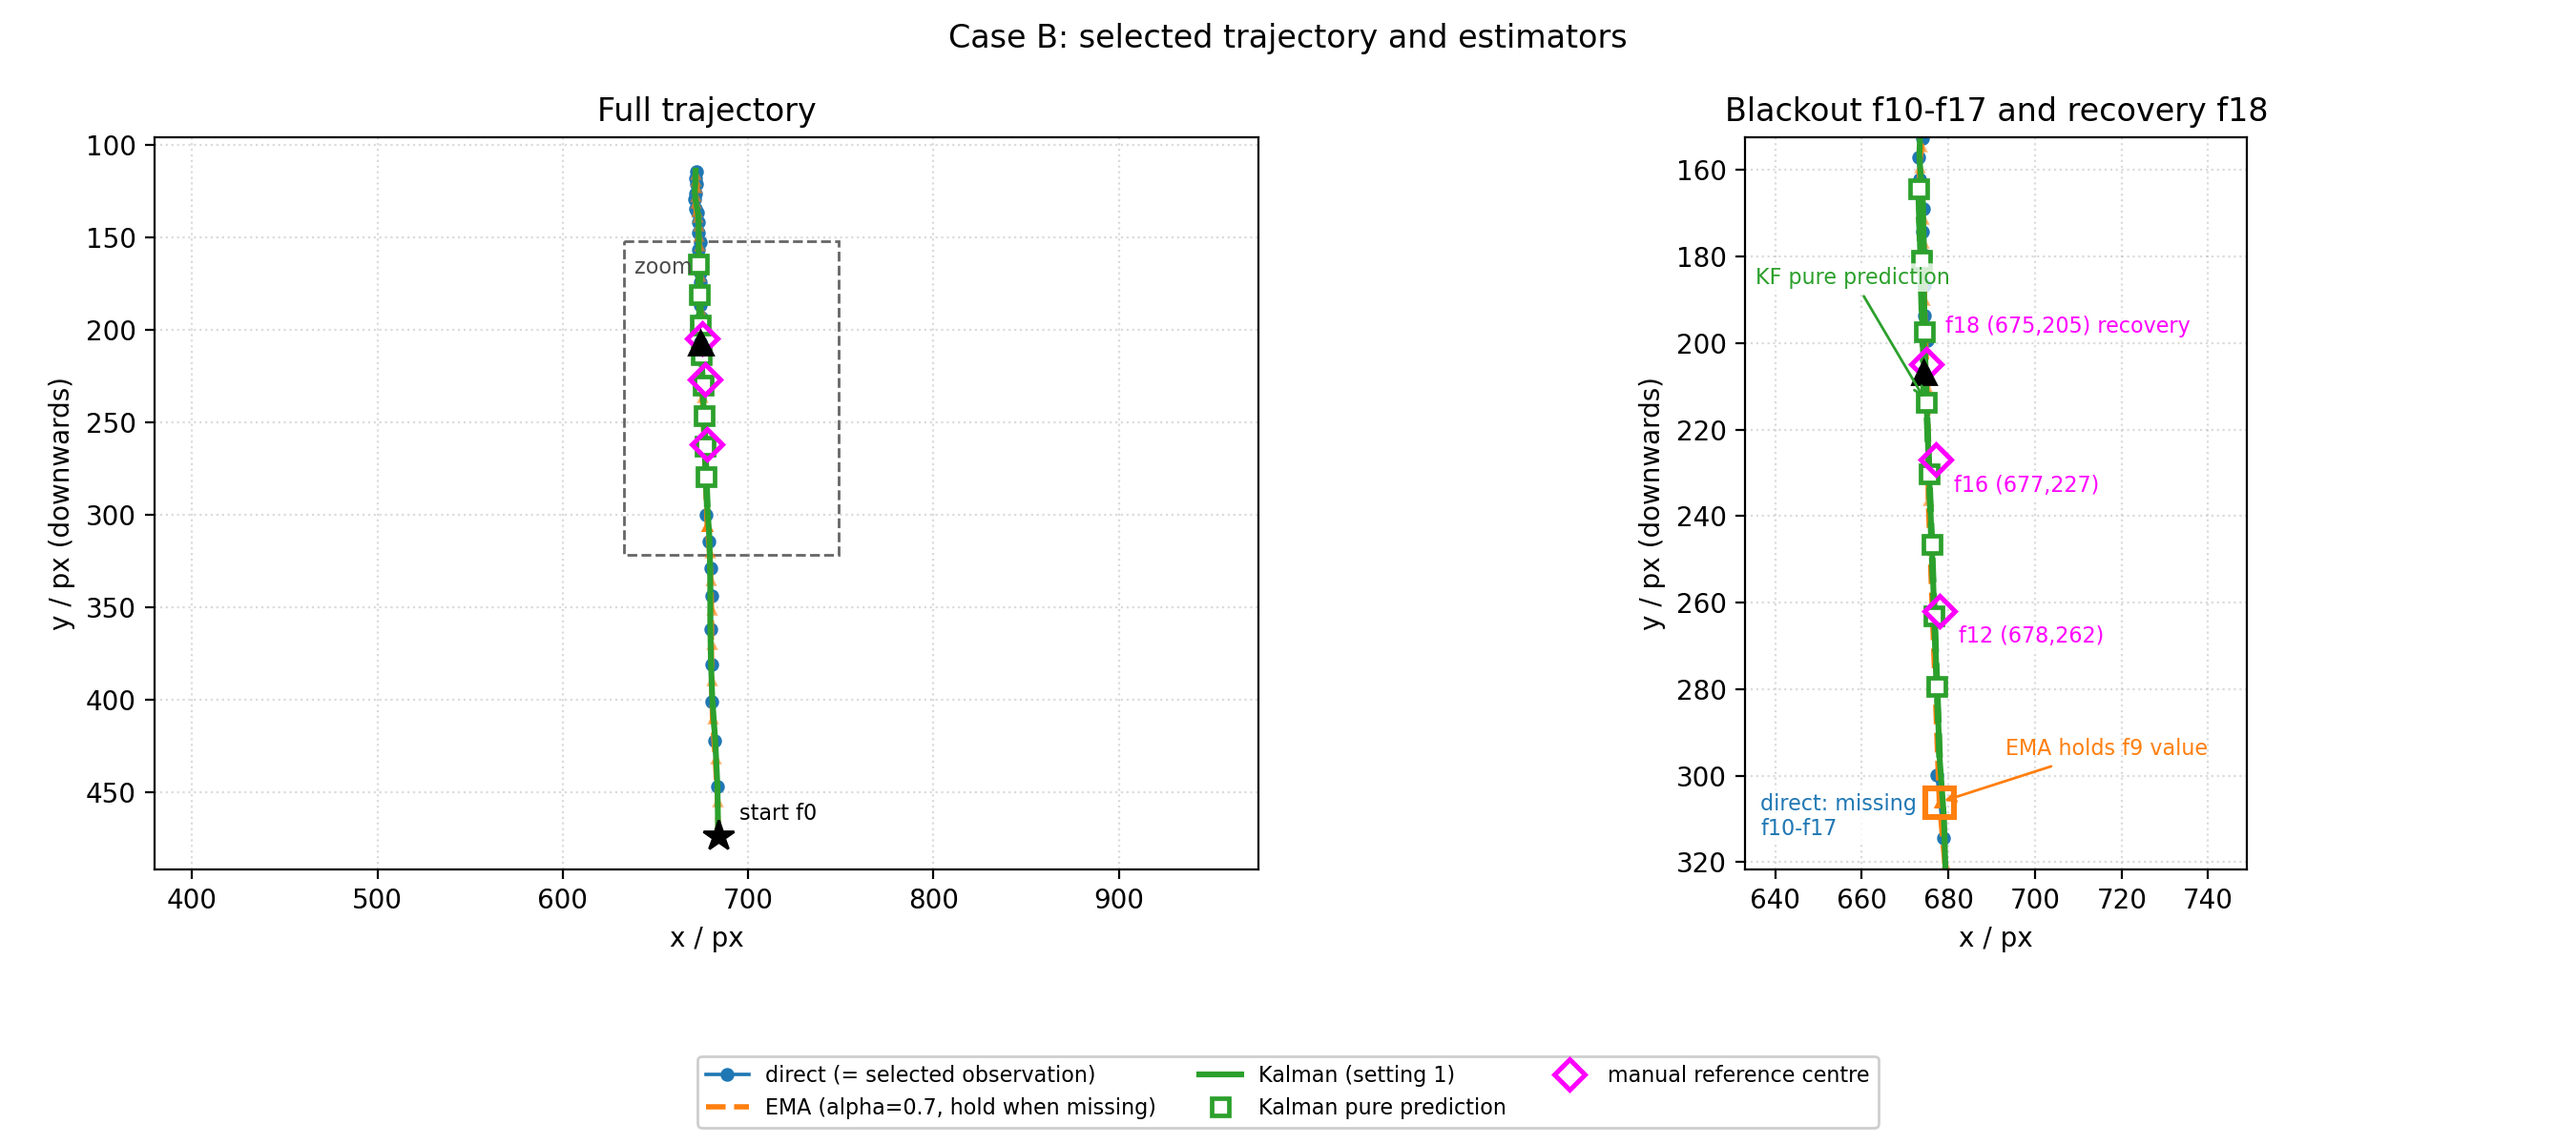
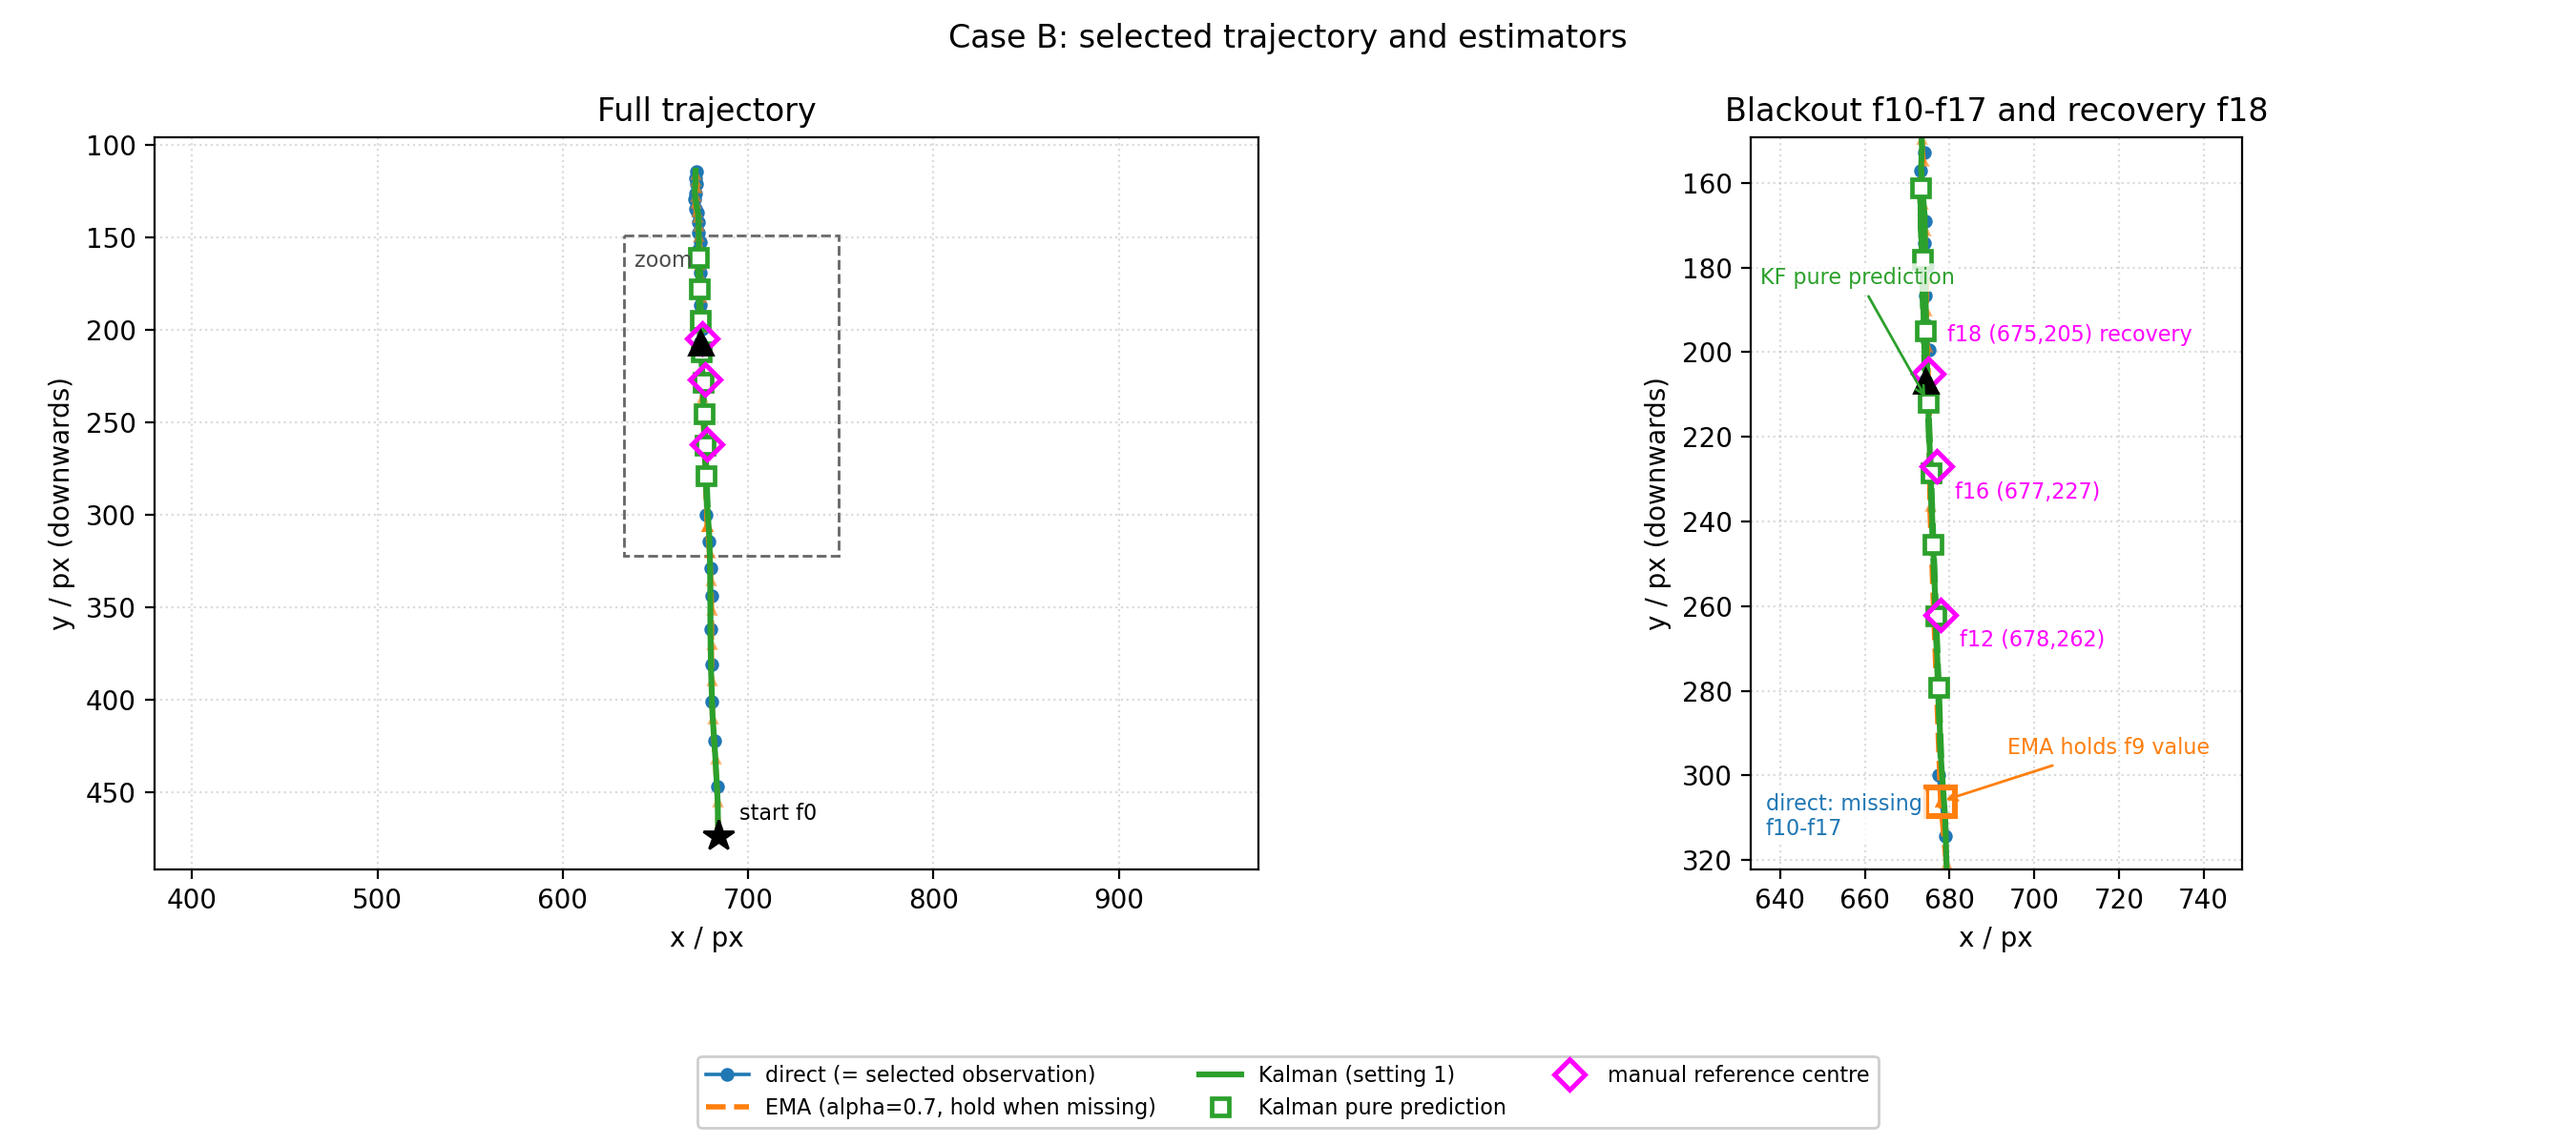
fix(task2): make Kalman velocity causal and use actual recovery frame
- Start the Kalman filter with zero velocity; the second observation updates velocity when it arrives, so the frame-1 prediction no longer depends on the frame-1 observation.
- Derive the recovery frame from the input blackout flags instead of fixed manual frames; the 13-frame B blackout exports recovery frame 23.
- Regenerate trajectory plots, screenshots, per-frame tables and reference errors with the causal filter.

diff --git a/task2/run.py b/task2/run.py
@@ -125,13 +125,12 @@ def ema_estimates(frames, obs: dict[int, Observation], alpha: float):
 
 def kalman_estimates(frames, obs: dict[int, Observation], sigma_r: float):
     """Constant-velocity linear KF; returns prior, posterior and mode."""
-    observed = sorted(obs)
-    f0, f1 = observed[0], observed[1]
-    z0, z1 = obs[f0].center, obs[f1].center
-    times = {tf.index: tf.time_s for tf in frames}
-    dt = times[f1] - times[f0]
-    velocity = (z1 - z0) / dt
-    x = np.array([z0[0], z0[1], velocity[0], velocity[1]], dtype=float)
+    f0 = min(obs)
+    z0 = obs[f0].center
+    # Causal start: no future observation is used to set the initial velocity.
+    # The second observation, when it actually arrives, updates the state and
+    # therefore the velocity through the normal Kalman update.
+    x = np.array([z0[0], z0[1], 0.0, 0.0], dtype=float)
     P = np.diag([P0_POS ** 2, P0_POS ** 2, P0_VEL ** 2, P0_VEL ** 2])
     H = np.array([[1.0, 0.0, 0.0, 0.0], [0.0, 1.0, 0.0, 0.0]])
     R = np.eye(2) * sigma_r ** 2
@@ -144,6 +143,8 @@ def kalman_estimates(frames, obs: dict[int, Observation], sigma_r: float):
     mode[f0] = "init"
 
     for previous, current in zip(frames, frames[1:]):
+        if current.index <= f0:
+            continue
         dt = current.time_s - previous.time_s
         F = np.array([[1.0, 0.0, dt, 0.0],
                       [0.0, 1.0, 0.0, dt],
@@ -188,6 +189,22 @@ def counts(frames, obs):
         "ema_valid": len(frames),
         "kalman_valid": len(frames),
     }
+
+
+def recovery_frame(frames, obs) -> int:
+    """First observed frame after the last input blackout frame."""
+    black = [tf.index for tf in frames if tf.blackout]
+    if black:
+        last_blackout = max(black)
+        candidates = [tf.index for tf in frames
+                      if tf.index > last_blackout and not tf.blackout
+                      and tf.index in obs]
+    else:
+        candidates = [tf.index for tf in frames if tf.index in obs]
+    if not candidates:
+        raise SystemExit(
+            "no observed frame after the blackout; cannot export recovery frame")
+    return min(candidates)
 
 
 def write_frame_table(path: Path, frames, obs, ema, post, mode):
@@ -235,10 +252,11 @@ def plot_case(case: str, frames, obs, ema, post, manual, setting: int,
     black_idx = np.where(black)[0]
     first_black, last_black = black_idx[0], black_idx[-1]
     hold_idx = first_black - 1
-    recovery = min(f for f in manual if not frames[f].blackout)
+    recovery = recovery_frame(frames, obs)
 
     zoom_ids = sorted(set(range(max(0, first_black - 2),
-                                min(len(fs), last_black + 3))) | set(manual))
+                                min(len(fs), last_black + 3))) | set(manual)
+                      | {recovery})
     zx_values = list(kx[zoom_ids]) + list(mx) + [
         obs_x[recovery], ema[hold_idx][0]]
     zy_values = list(ky[zoom_ids]) + list(my) + [
@@ -287,6 +305,11 @@ def plot_case(case: str, frames, obs, ema, post, manual, setting: int,
                             color="magenta", fontsize=8,
                             bbox=dict(boxstyle="round,pad=0.15",
                                       fc="white", ec="none", alpha=0.75))
+            if recovery not in manual:
+                ax.annotate(f"recovery f{recovery}",
+                            (obs_x[recovery], obs_y[recovery]),
+                            xytext=(8, -16), textcoords="offset points",
+                            fontsize=8, color="black")
             hold = ema[hold_idx]
             ax.plot(hold[0], hold[1], "s", ms=11, mfc="none",
                     mec="tab:orange", mew=2.2)
@@ -451,14 +474,21 @@ def main() -> None:
         frames_a, obs_a, ema_a = data["a"]
         kf_a = {s: kalman_estimates(frames_a, obs_a, SIGMA_R[s])
                 for s in (1, 2)}
-        recovery_a = 20
-        manual_a = MANUAL["a"][recovery_a]
-        err_a = {s: float(np.linalg.norm(
-            kf_a[s][1][recovery_a] - manual_a)) for s in (1, 2)}
-        selected = min(err_a, key=err_a.get)
-        print(f"A recovery f{recovery_a}: corrected error "
-              f"setting1={err_a[1]:.2f} px, setting2={err_a[2]:.2f} px "
-              f"-> setting {selected}")
+        recovery_a = recovery_frame(frames_a, obs_a)
+        if recovery_a in MANUAL["a"]:
+            manual_a = MANUAL["a"][recovery_a]
+            err_a = {s: float(np.linalg.norm(
+                kf_a[s][1][recovery_a] - manual_a)) for s in (1, 2)}
+            selected = min(err_a, key=err_a.get)
+            print(f"A recovery f{recovery_a}: corrected error "
+                  f"setting1={err_a[1]:.2f} px, setting2={err_a[2]:.2f} px "
+                  f"-> setting {selected}")
+        else:
+            manual_a = None
+            err_a = {}
+            selected = 1
+            print(f"A recovery f{recovery_a} is not a fixed manual centre; "
+                  f"keeping setting 1")
     else:
         frames_a = obs_a = ema_a = kf_a = None
         recovery_a = None
@@ -482,7 +512,7 @@ def main() -> None:
                           post, mode)
         plot_case(case, frames, obs, ema, post, MANUAL[case], selected,
                   OUT / f"{case}_trajectory.png")
-        rec = min(f for f in MANUAL[case] if not frames[f].blackout)
+        rec = recovery_frame(frames, obs)
         recovery_screenshot(case, rec, obs[rec], prior[rec], post[rec],
                             selected, OUT / f"{case}_recovery.png")
         errors[case] = {}
@@ -517,7 +547,7 @@ def main() -> None:
                     f"{e['ema']:.3f}", f"{e['kalman']:.3f}",
                 ])
 
-    if "a" in data:
+    if "a" in data and recovery_a in MANUAL["a"]:
         rec = ROOT / "task2" / "recovery-comparison.csv"
         with rec.open("w", encoding="utf-8", newline="") as file:
             writer = csv.writer(file, lineterminator="\n")

diff --git a/results/task2/README.md b/results/task2/README.md
@@ -23,7 +23,13 @@ python3 task2/run.py              # A、B 都跑
 python3 task2/run.py --case b     # 只复跑 B，沿用 A 选出的设置
 ```
 
-程序从任务二的输入帧表、缺测标记和候选框推进；黑屏区间、时间戳均按输入读取，没有写死帧号。换用延长黑屏的 B 片段时，只要替换素材，程序会在黑屏结束后按运动 + 尺寸连续性重新接回候选框。
+程序从任务二的输入帧表、缺测标记和候选框推进；黑屏区间、时间戳均按输入读取，没有写死帧号。换用延长黑屏的 B 片段时，替换 `assets/task2_vehicle_materials.zip` 后运行：
+
+```bash
+python3 task2/run.py --case b
+```
+
+恢复帧由 `blackout` 标记自动确定，取最后一个黑屏帧之后的第一个有观测帧。把 B 黑屏从 8 帧延长到 13 帧时，程序接回红车并把恢复帧定位到第 23 帧（不再固定找第 18 帧），截图和轨迹导出正常。
 
 ## 目标选择与接回依据
 
@@ -42,8 +48,9 @@ python3 task2/run.py --case b     # 只复跑 B，沿用 A 选出的设置
 - 测量噪声：设置 1 **σr=4 px，R=16·I**；设置 2 **σr=8 px，R=64·I**（标准差 2 倍，协方差 4 倍）。
 - 以 `dt=0.033367 s` 计，单帧 Q 约为（单位依次为 px²、px²/s、px²/s²）：
   `[[0.1983, 0, 11.8875, 0], [0, 0.1983, 0, 11.8875], [11.8875, 0, 712.5355, 0], [0, 11.8875, 0, 712.5355]]`。
-- 初始状态：`x0=z0`，速度取前两帧差分 `(z1−z0)/dt`；**P0=diag(5²,5²,100²,100²)=diag(25,25,10000,10000)** px²。
+- 初始状态：`x0=z0`，`v0=0`；第二观测实际到达后才通过卡尔曼更新估计速度，不用未来观测回溯首帧。因此第 1 帧是否缺测不会改变第 1 帧的预测。**P0=diag(5²,5²,100²,100²)=diag(25,25,10000,10000)** px²。
 - 两组设置只改 R，Q、运动模型、初始状态、P0 完全相同。
+- 恢复帧由输入 `blackout` 标记确定：取最后一个黑屏帧之后的第一个有观测帧，不依赖固定参考帧；延长黑屏时截图和导出仍指向实际恢复帧。
 
 黑屏期间：直接输出缺测；指数平滑保持最后一帧值；卡尔曼只预测、不修正。逐帧表的 `kalman_mode` 列标出 `init/update/predict`；轨迹图的黑色虚线段和空心方块即纯预测帧。
 
@@ -53,8 +60,8 @@ python3 task2/run.py --case b     # 只复跑 B，沿用 A 选出的设置
 
 | 设置 | 预测位置/px | 观测位置/px | 修正位置/px | 修正误差/px |
 | ---: | --- | --- | --- | ---: |
-| 1（σr=4） | (802.946,173.386) | (831.558,225.202) | (830.482,223.254) | **3.597** |
-| 2（σr=8） | (789.887,152.817) | (831.558,225.202) | (827.280,217.772) | 9.162 |
+| 1（σr=4） | (801.131,170.388) | (831.558,225.202) | (830.413,223.141) | **3.688** |
+| 2（σr=8） | (786.613,147.411) | (831.558,225.202) | (826.944,217.217) | 9.788 |
 
 选择 **设置 1**：观测本身很准（直接输出误差 2.722 px），设置 2 的 R 更大，黑屏前对观测的权重更低，速度估计更滞后，导致恢复前的预测和修正都更差。红车片段固定使用设置 1，参数不再调整。
 
@@ -62,10 +69,10 @@ python3 task2/run.py --case b     # 只复跑 B，沿用 A 选出的设置
 
 B 片段第 18 帧，人工中心 `(675,205)`：
 
-- 预测 `(672.5,148.0)`，误差 57.0 px；
-- 观测 `(674.3,206.6)`，误差 1.747 px；
-- 修正 `(674.2,204.4)`，误差 **1.010 px**；
-- 指数平滑 `(675.4,236.5)`，误差 31.462 px（黑屏期间保持，恢复帧才拉回）。
+- 预测 `(672.483,144.361)`，误差 60.7 px；
+- 观测 `(674.266,206.585)`，误差 1.747 px；
+- 修正 `(674.198,204.245)`，误差 **1.101 px**；
+- 指数平滑 `(675.359,236.460)`，误差 31.462 px（黑屏期间保持，恢复帧才拉回）。
 
 ## 六个参考帧的人工中心与像素误差
 
@@ -73,12 +80,12 @@ B 片段第 18 帧，人工中心 `(675,205)`：
 
 | 片段 | 帧 | 阶段 | 人工中心/px | 直接误差/px | 指数平滑误差/px | 卡尔曼误差/px |
 | --- | ---: | --- | --- | ---: | ---: | ---: |
-| A | 14 | 黑屏 | (864,279) | — | 43.946 | 18.579 |
-| A | 18 | 黑屏 | (842,238) | — | 90.476 | 41.046 |
-| A | 20 | 恢复 | (834,224) | 2.722 | 31.959 | 3.597 |
-| B | 12 | 黑屏 | (678,262) | — | 44.168 | 15.536 |
-| B | 16 | 黑屏 | (677,227) | — | 79.173 | 46.238 |
-| B | 18 | 恢复 | (675,205) | 1.747 | 31.462 | 1.010 |
+| A | 14 | 黑屏 | (864,279) | — | 43.946 | 19.980 |
+| A | 18 | 黑屏 | (842,238) | — | 90.476 | 43.848 |
+| A | 20 | 恢复 | (834,224) | 2.722 | 31.959 | 3.688 |
+| B | 12 | 黑屏 | (678,262) | — | 44.168 | 16.702 |
+| B | 16 | 黑屏 | (677,227) | — | 79.173 | 49.070 |
+| B | 18 | 恢复 | (675,205) | 1.747 | 31.462 | 1.101 |
 
 ## 分段输出帧数
 
